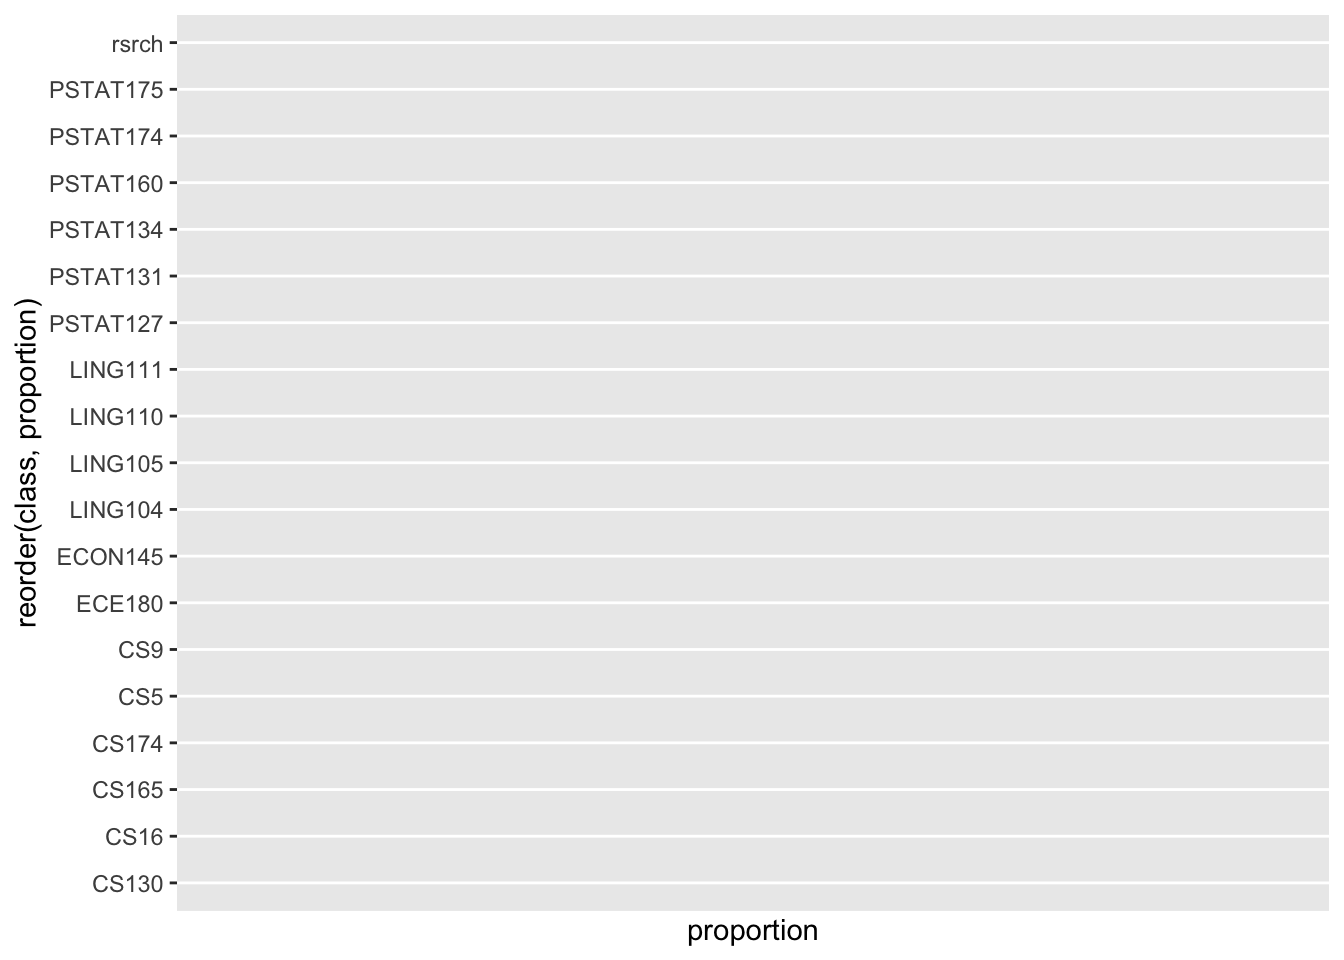
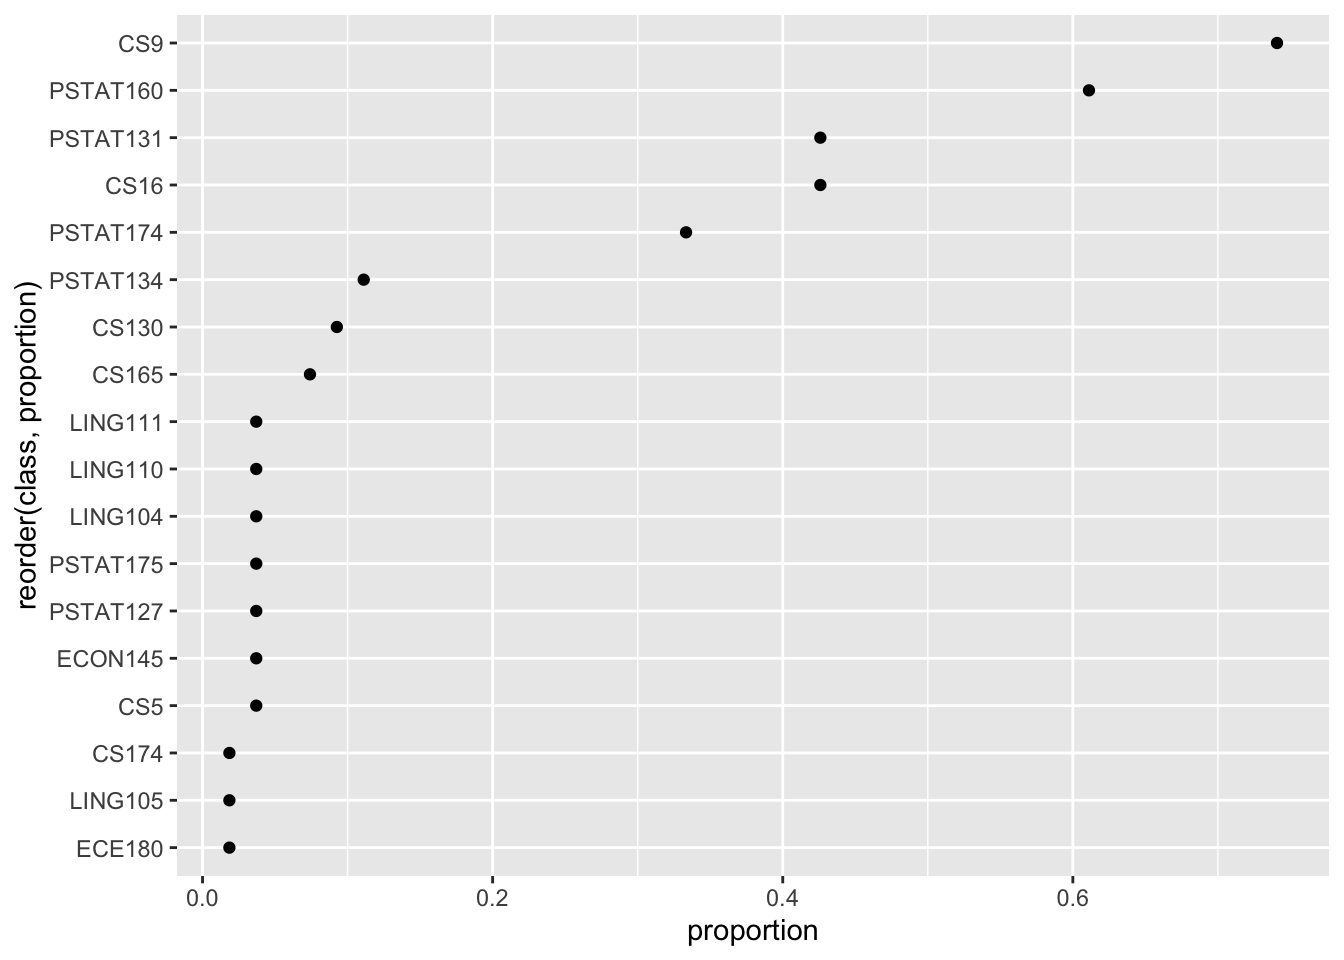
updates

diff --git a/docs/materials/labs/lab2-tidyverse/lab2-tidyverse.html b/docs/materials/labs/lab2-tidyverse/lab2-tidyverse.html
@@ -951,65 +951,64 @@ $short
 <p>Suppose we want to summarize the prior coursework in the class.</p>
 <div class="cell">
 <div class="code-copy-outer-scaffold"><div class="sourceCode cell-code" id="cb118"><pre class="sourceCode r code-with-copy"><code class="sourceCode r"><span id="cb118-1"><a href="#cb118-1" aria-hidden="true" tabindex="-1"></a><span class="co"># summary of classes taken</span></span>
-<span id="cb118-2"><a href="#cb118-2" aria-hidden="true" tabindex="-1"></a>classes <span class="ot">&lt;-</span> background <span class="sc">%&gt;%</span></span>
-<span id="cb118-3"><a href="#cb118-3" aria-hidden="true" tabindex="-1"></a>  <span class="fu">select</span>(<span class="dv">11</span><span class="sc">:</span><span class="dv">29</span>) <span class="sc">%&gt;%</span></span>
-<span id="cb118-4"><a href="#cb118-4" aria-hidden="true" tabindex="-1"></a>  <span class="fu">mutate_all</span>(<span class="sc">~</span><span class="fu">factor</span>(.x, <span class="at">levels =</span> <span class="fu">c</span>(<span class="st">'no'</span>, <span class="st">'yes'</span>))) <span class="sc">%&gt;%</span></span>
-<span id="cb118-5"><a href="#cb118-5" aria-hidden="true" tabindex="-1"></a>  <span class="fu">mutate_all</span>(<span class="sc">~</span><span class="fu">as.numeric</span>(.x) <span class="sc">-</span> <span class="dv">1</span>) <span class="sc">%&gt;%</span></span>
-<span id="cb118-6"><a href="#cb118-6" aria-hidden="true" tabindex="-1"></a>  <span class="fu">summarize_all</span>(mean) <span class="sc">%&gt;%</span></span>
-<span id="cb118-7"><a href="#cb118-7" aria-hidden="true" tabindex="-1"></a>  <span class="fu">gather</span>(class, proportion)</span>
-<span id="cb118-8"><a href="#cb118-8" aria-hidden="true" tabindex="-1"></a></span>
-<span id="cb118-9"><a href="#cb118-9" aria-hidden="true" tabindex="-1"></a>classes</span></code></pre></div><button title="Copy to Clipboard" class="code-copy-button"><i class="bi"></i></button></div>
+<span id="cb118-2"><a href="#cb118-2" aria-hidden="true" tabindex="-1"></a></span>
+<span id="cb118-3"><a href="#cb118-3" aria-hidden="true" tabindex="-1"></a>classes <span class="ot">&lt;-</span> background <span class="sc">%&gt;%</span></span>
+<span id="cb118-4"><a href="#cb118-4" aria-hidden="true" tabindex="-1"></a>  <span class="fu">select</span>(<span class="dv">11</span><span class="sc">:</span><span class="dv">28</span>) <span class="sc">%&gt;%</span></span>
+<span id="cb118-5"><a href="#cb118-5" aria-hidden="true" tabindex="-1"></a>  <span class="fu">mutate</span>(<span class="fu">across</span>(<span class="fu">everything</span>(), <span class="sc">~</span> <span class="fu">ifelse</span>(.x <span class="sc">==</span> <span class="dv">1</span>, <span class="st">"yes"</span>, <span class="st">"no"</span>))) <span class="sc">%&gt;%</span></span>
+<span id="cb118-6"><a href="#cb118-6" aria-hidden="true" tabindex="-1"></a>  <span class="fu">mutate</span>(<span class="fu">across</span>(<span class="fu">everything</span>(), <span class="sc">~</span> <span class="fu">factor</span>(.x, <span class="at">levels =</span> <span class="fu">c</span>(<span class="st">"no"</span>, <span class="st">"yes"</span>)))) <span class="sc">%&gt;%</span></span>
+<span id="cb118-7"><a href="#cb118-7" aria-hidden="true" tabindex="-1"></a>  <span class="fu">summarize</span>(<span class="fu">across</span>(<span class="fu">everything</span>(), <span class="sc">~</span> <span class="fu">mean</span>(<span class="fu">as.numeric</span>(.x) <span class="sc">-</span> <span class="dv">1</span>, <span class="at">na.rm =</span> <span class="cn">TRUE</span>))) <span class="sc">%&gt;%</span></span>
+<span id="cb118-8"><a href="#cb118-8" aria-hidden="true" tabindex="-1"></a>  <span class="fu">gather</span>(class, proportion)</span>
+<span id="cb118-9"><a href="#cb118-9" aria-hidden="true" tabindex="-1"></a></span>
+<span id="cb118-10"><a href="#cb118-10" aria-hidden="true" tabindex="-1"></a>classes</span></code></pre></div><button title="Copy to Clipboard" class="code-copy-button"><i class="bi"></i></button></div>
 <div class="cell-output cell-output-stdout">
-<pre><code># A tibble: 19 × 2
+<pre><code># A tibble: 18 × 2
    class    proportion
    &lt;chr&gt;         &lt;dbl&gt;
- 1 PSTAT131         NA
- 2 PSTAT160         NA
- 3 PSTAT174         NA
- 4 CS9              NA
- 5 CS16             NA
- 6 LING104          NA
- 7 LING110          NA
- 8 LING111          NA
- 9 CS130            NA
-10 CS165            NA
-11 ECON145          NA
-12 PSTAT127         NA
-13 PSTAT134         NA
-14 CS5              NA
-15 ECE180           NA
-16 LING105          NA
-17 PSTAT175         NA
-18 CS174            NA
-19 rsrch            NA</code></pre>
+ 1 PSTAT131     0.426 
+ 2 PSTAT160     0.611 
+ 3 PSTAT174     0.333 
+ 4 CS9          0.741 
+ 5 CS16         0.426 
+ 6 LING104      0.0370
+ 7 LING110      0.0370
+ 8 LING111      0.0370
+ 9 CS130        0.0926
+10 CS165        0.0741
+11 ECON145      0.0370
+12 PSTAT127     0.0370
+13 PSTAT134     0.111 
+14 CS5          0.0370
+15 ECE180       0.0185
+16 LING105      0.0185
+17 PSTAT175     0.0370
+18 CS174        0.0185</code></pre>
 </div>
 </div>
 <p>We could report the results in a table, in which case perhaps arranging in descending order may be helpful:</p>
 <div class="cell">
 <div class="code-copy-outer-scaffold"><div class="sourceCode cell-code" id="cb120"><pre class="sourceCode r code-with-copy"><code class="sourceCode r"><span id="cb120-1"><a href="#cb120-1" aria-hidden="true" tabindex="-1"></a>classes <span class="sc">%&gt;%</span> <span class="fu">arrange</span>(<span class="fu">desc</span>(proportion))</span></code></pre></div><button title="Copy to Clipboard" class="code-copy-button"><i class="bi"></i></button></div>
 <div class="cell-output cell-output-stdout">
-<pre><code># A tibble: 19 × 2
+<pre><code># A tibble: 18 × 2
    class    proportion
    &lt;chr&gt;         &lt;dbl&gt;
- 1 PSTAT131         NA
- 2 PSTAT160         NA
- 3 PSTAT174         NA
- 4 CS9              NA
- 5 CS16             NA
- 6 LING104          NA
- 7 LING110          NA
- 8 LING111          NA
- 9 CS130            NA
-10 CS165            NA
-11 ECON145          NA
-12 PSTAT127         NA
-13 PSTAT134         NA
-14 CS5              NA
-15 ECE180           NA
-16 LING105          NA
-17 PSTAT175         NA
-18 CS174            NA
-19 rsrch            NA</code></pre>
+ 1 CS9          0.741 
+ 2 PSTAT160     0.611 
+ 3 PSTAT131     0.426 
+ 4 CS16         0.426 
+ 5 PSTAT174     0.333 
+ 6 PSTAT134     0.111 
+ 7 CS130        0.0926
+ 8 CS165        0.0741
+ 9 LING104      0.0370
+10 LING110      0.0370
+11 LING111      0.0370
+12 ECON145      0.0370
+13 PSTAT127     0.0370
+14 PSTAT175     0.0370
+15 CS5          0.0370
+16 CS174        0.0185
+17 ECE180       0.0185
+18 LING105      0.0185</code></pre>
 </div>
 </div>
 <p>Let’s say we’d rather plot this data. We’ll put the course number on one axis and the proportion of students who took it on the other.</p>

diff --git a/docs/materials/course-materials.html b/docs/materials/course-materials.html
@@ -260,9 +260,9 @@ div.csl-indent {
 </section>
 <section id="week-2" class="level3">
 <h3 class="anchored" data-anchor-id="week-2">Week 2</h3>
-<!-- -   ***Tuesday meeting:*** Introducing class intake survey data [\[slides](slides/week2-classdata.qmd)\] -->
 <ul>
-<li><strong><em>Section meeting:</em></strong> tidyverse basics <a href="../materials/labs/lab2-tidyverse/lab2-tidyverse.html">[activity</a>]</li>
+<li><p><strong><em>Tuesday meeting:</em></strong> Introducing class intake survey data <a href="../materials/slides/week2-classdata.html">[slides</a>]</p></li>
+<li><p><strong><em>Section meeting:</em></strong> tidyverse basics <a href="../materials/labs/lab2-tidyverse/lab2-tidyverse.html">[activity</a>]</p></li>
 </ul>
 <!-- -   ***Thursday meeting:*** planning group work for analysis of survey data \[[slides](slides/week2-workshop.qmd)\] -->
 <!-- -   ***Assignments:*** -->

diff --git a/docs/materials/slides/week2-classdata.html b/docs/materials/slides/week2-classdata.html
@@ -216,12 +216,7 @@ Dr.&nbsp;Coburn
 <h2>Class survey data</h2>
 <ul>
 <li class="fragment"><p>survey distributed to all students offered enrollment in PSTAT197A fall 2022</p></li>
-<li class="fragment"><p><span class="math inline">\(n = 65\)</span> responses</p>
-<ul>
-<li class="fragment"><p>includes a few students who did not enroll</p></li>
-<li class="fragment"><p>does not include several students who did not enroll</p></li>
-<li class="fragment"><p>does not include one student who enrolled late</p></li>
-</ul></li>
+<li class="fragment"><p><span class="math inline">\(n = 60\)</span> responses</p></li>
 <li class="fragment"><p>no random selection</p></li>
 </ul>
 </section>
